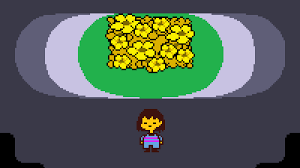
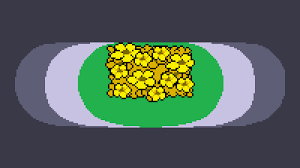
updates

diff --git a/Site/flowergarden.html b/Site/flowergarden.html
@@ -2,7 +2,7 @@
 <html lang="en">
 
 <head>
-<title>Flowey</title>
+<title>Flowerpatch</title>
 <link rel="icon" type="image/x-icon" href="/images/favicon-flowey.ico">
 </head>
 
@@ -17,33 +17,56 @@ body {background-color: black;
   	  background-position: top;}
 	
 
-div	 {float: right;
+p	 {float: right;
 	  position: absolute;
 	  bottom: 160px;
-	  right:  590px;
+	  right:  430px;
 	  text-align: center;
 	  font-weight: 900;
 	  color: white;
 	  font-family: 'Fiery Turk', sans-serif;
 	  font-size: 150%;
 	  background-color: black;
-  	  width: 650px;
+  	  width: 900px;
+	  border: 10px solid white;
   	  padding: 50px;
   	  margin: 20px; 
 	}	  
+
+	mark.yellow {
+    color: yellow;
+    background: none;
+	}	
+
+div.flowey {
+	float: right;
+	  position: absolute;
+	  bottom: 310px;
+	  right:  720px;
+
+}	
+
+div.heart {
+	float: right;
+	  position: absolute;
+	  bottom: 200px;
+	  right:  490px;
+}	
+
+
 
 </style>
 
 
 
-<center>
-<img src="/images/undertale-flowey.png" alt="Flowey" width="500" height="500"></a>
-</center>
+
+<div class="flowey"><img src="/images/undertale-flowey.png" alt="Flowey" width="500" height="500"></div>
 
 
-<div> &#9913 Howdy! I'm FLOWEY. FLOWEY the FLOWER! <br> &#9913 Hmmm... You're new to the UNDERGROUND, aren'tcha? 
-<a href="underground.html">
-<img src="/images/heart.gif" alt="heart" width="50" height="50"></div></a>
+<p> &#9913 Howdy! I'm <mark class="yellow">FLOWEY</mark>. <mark class="yellow">FLOWEY</mark> the <mark class="yellow">FLOWEY</mark>! <br>
+<br> Hmmm... You're new to the UNDERGROUND, aren'tcha? </p>
+<div class="heart"><a href="toriel.html">
+<img src="/images/heart.gif" alt="heart" width="50" height="50"></a></div>
 
 </body>
 </html>

diff --git a/Site/toriel.html b/Site/toriel.html
@@ -2,8 +2,8 @@
 <html lang="en">
 
 <head>
-<title>Snowdin</title>
-<link rel="icon" type="image/x-icon" href="/images/favicon-snow.ico">
+<title>Livingroom</title>
+<link rel="icon" type="image/x-icon" href="/images/butterscotch pie.png">
 </head>
 
 <style>
@@ -14,18 +14,22 @@
 	  font-family:'Fiery Turk', sans-serif;}
 
 body {background-color: black;
-	  background-image: url("/images/Snowdin.png");
+	  background-image: url("/images/living\ room.gif");
 	  background-size: cover;}
 
 div	 {float: right;
 	  position: absolute;
 	  bottom: 220px;
 	  right:  550px;}
+	  
 </style>
 
 <body>
+
 <center>
+    <a 	 href="snowdin.html">
 	<img src="/images/heart.gif" alt="heart" width="50" height="50"></div></p></a>
+
 </center>
 
 

diff --git a/index.html b/index.html
@@ -1,0 +1,29 @@
+<!DOCTYPE html>
+<html lang="en">
+
+<head>
+<title>Start</title>
+<link rel="icon" type="image/x-icon" href="/images/favicon-delta.ico">
+</head>
+
+<body>
+<style>
+
+body {background-color: black;
+	  background-image: url("/images/start.jpg");
+	  background-size: cover;}
+
+div	 {
+	  position: absolute;
+	  bottom: 500px;
+	  right:  920px;}
+  
+</style>
+
+<center>
+    <a 	 href="flowergarden.html">
+    <div><img src="/images/heart.gif" alt="heart" width="50" height="50"></a></div>
+</center>
+
+</body>
+</html>

diff --git a/underground.html b/underground.html
@@ -4,7 +4,7 @@
 <head>
 
 <title>Underground</title>
-<link rel="icon" type="image/x-icon" href="/images/favicon-doggo.ico">
+<link rel="icon" type="image/x-icon" href="./images/favicon1.ico">
 
 <style>
 
@@ -21,7 +21,6 @@ div	 {float: right;
 </head>
 
 <body>
-	
 <center>
 
 <div><iframe width="854" height="480" src="https://www.youtube-nocookie.com/embed/fLd8qkmdBd0?controls=0" title="YouTube video player" 

diff --git a/Site/flowey.html b/Site/flowey.html
@@ -31,8 +31,6 @@ div	 {float: right;
 
 </style>
 
-<!-- Write your comments here -->
-/* This is a single-line comment */
 
 <center>
 <h1> &#9913 Howdy!</h1>
